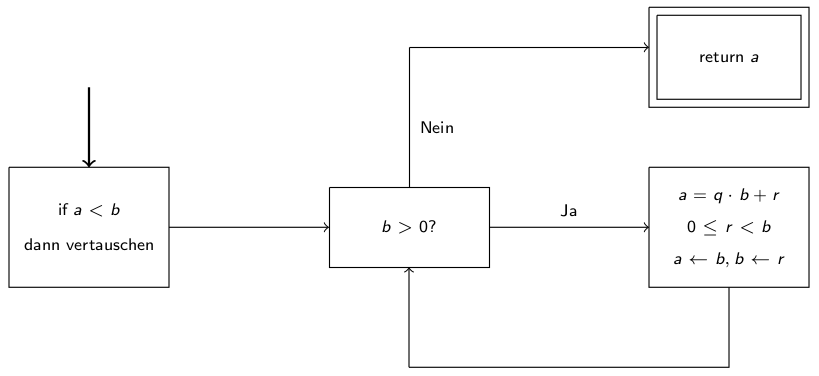
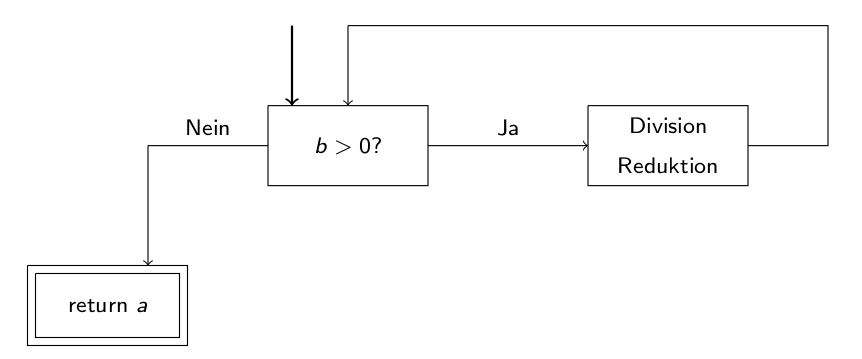
easier algorithm

diff --git a/main.tex b/main.tex
@@ -44,7 +44,6 @@ Leibniz Universit\"at Hannover\\
 \end{center}
 \newpage
 	\item \textsc{Euklid} \\ \begin{algorithmic}[1]
-		\State \textbf{if} $a < b$: vertausche a und b.
 		\While {$b>0$}
 		\State berechne $q,r$ mit $a=q\cdot b+r$, wobei $0\leq r < b$
 		\State $a\gets b, b\gets r$
@@ -52,7 +51,7 @@ Leibniz Universit\"at Hannover\\
 		\State \textbf{return} $a$
 	\end{algorithmic}	
 	\begin{center}
-	\includegraphics[scale=0.5]{euklid}
+	\includegraphics[scale=0.4]{euklid}
 	\end{center}
 	\vspace{10pt}
 	\item \textsc{Euklid} effizienter als \textsc{LangsamEuklid} wegen Zusammenfassung mehrfacher Subtraktionen.
